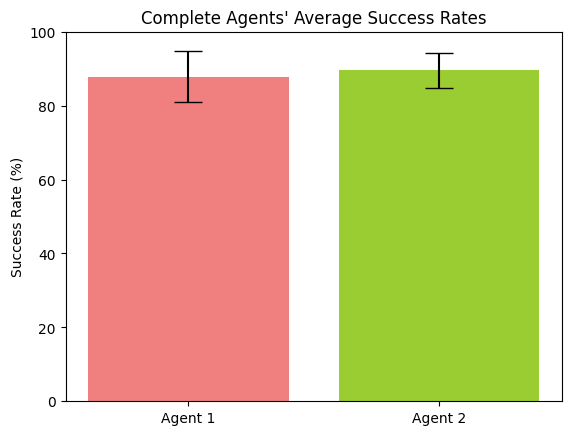
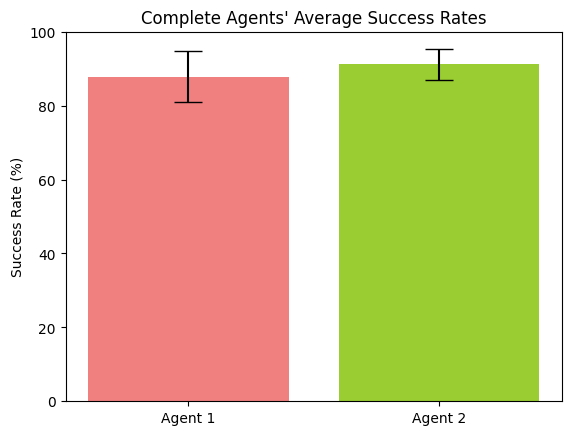
more data :)

Changed region(s): [[0.5954, 0.0897, 0.9527, 0.2092]]

diff --git a/main.py b/main.py
@@ -398,28 +398,28 @@ def labreport_simulation_statistics_agent8C():
 if __name__ == "__main__":
     # labreport_simulation_statistics_agent1()
     # labreport_simulation_statistics_agent2()
-    # simulation_statistics.visualize(
-    #     "data/", "simulation_statistics_complete.json")
+    simulation_statistics.visualize(
+        "data/", "simulation_statistics_complete.json")
 
     # labreport_simulation_statistics_agent3()
     # labreport_simulation_statistics_agent4()
-    # simulation_statistics.visualize(
-    #     "data/", "simulation_statistics_partial-prey.json")
+    simulation_statistics.visualize(
+        "data/", "simulation_statistics_partial-prey.json")
 
     # labreport_simulation_statistics_agent5()
     # labreport_simulation_statistics_agent6()
-    # simulation_statistics.visualize(
-    #     "data/", "simulation_statistics_partial-predator.json")
+    simulation_statistics.visualize(
+        "data/", "simulation_statistics_partial-predator.json")
 
     # labreport_simulation_statistics_agent7()
     # labreport_simulation_statistics_agent8()
-    # simulation_statistics.visualize(
-    #     "data/", "simulation_statistics_combined-partial.json")
+    simulation_statistics.visualize(
+        "data/", "simulation_statistics_combined-partial.json")
 
     # labreport_simulation_statistics_agent7B()
     # labreport_simulation_statistics_agent8B()
-    # simulation_statistics.visualize(
-    #     "data/", "simulation_statistics_combined-partial-defective.json")
+    simulation_statistics.visualize(
+        "data/", "simulation_statistics_combined-partial-defective.json")
 
     # labreport_simulation_statistics_agent7C()
     # labreport_simulation_statistics_agent8C()
